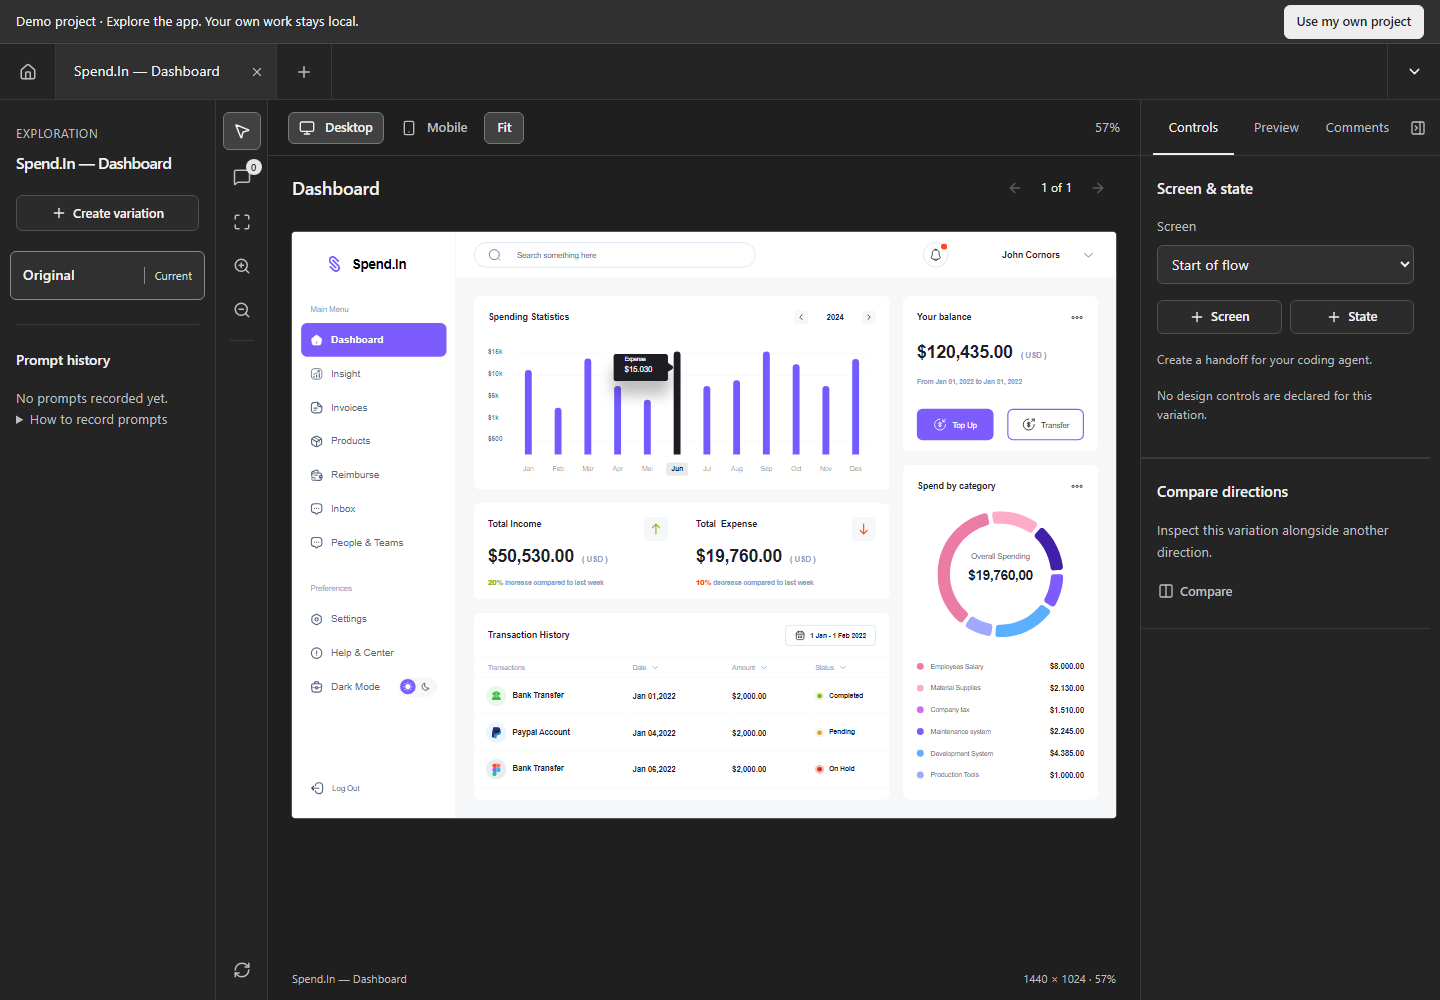
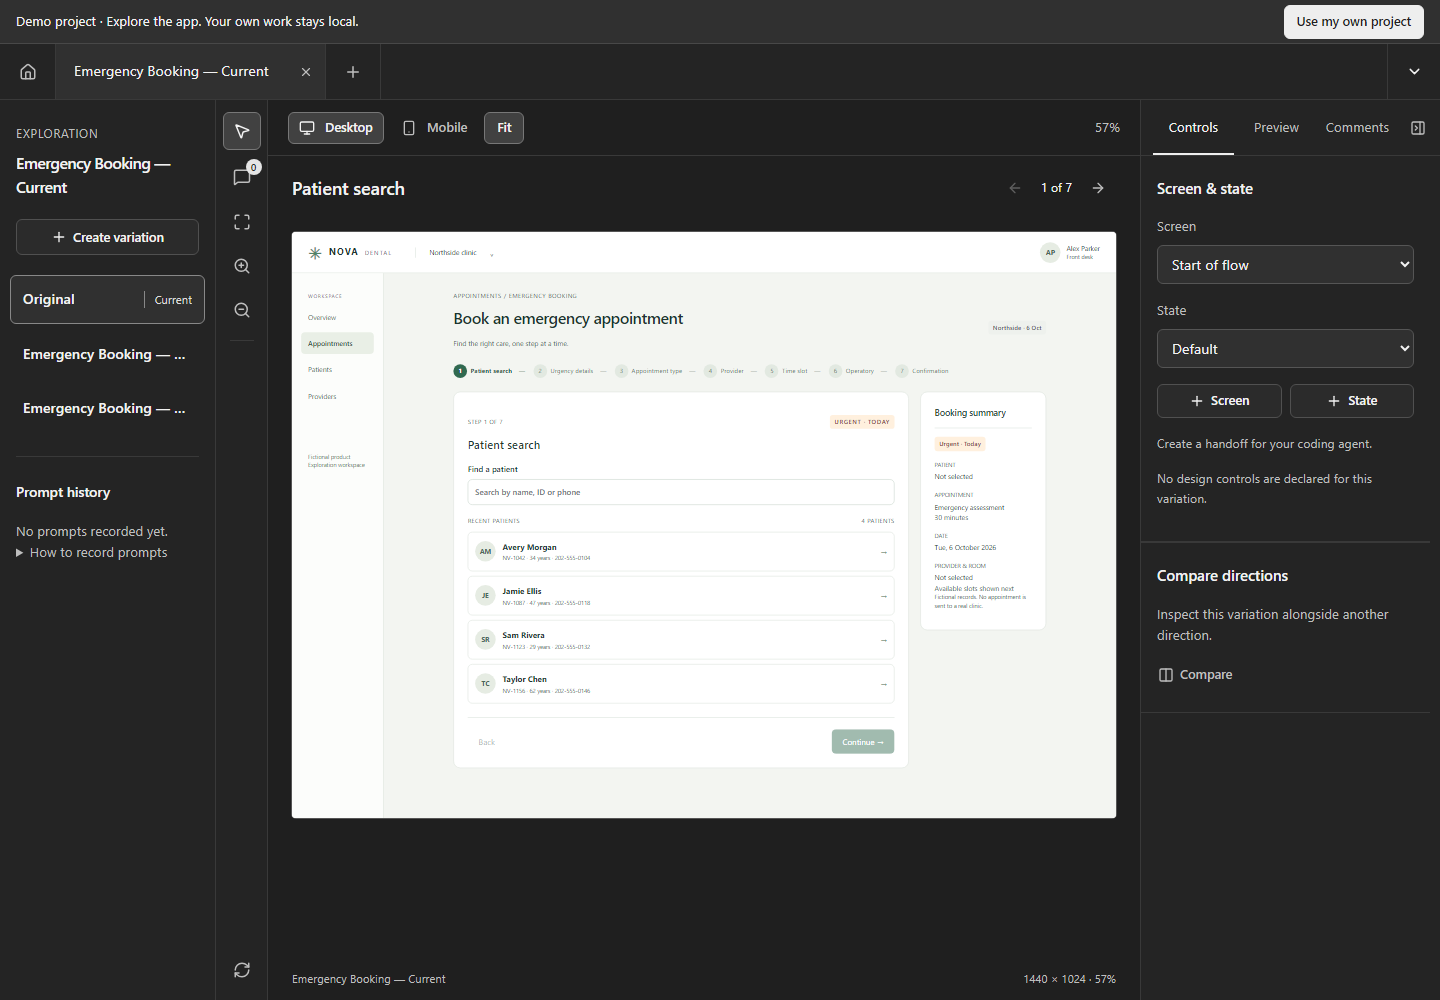
feat: open NOVA Dental by default in the public demo

diff --git a/apps/web/src/StudioApp.tsx b/apps/web/src/StudioApp.tsx
@@ -34,6 +34,9 @@ import {
 import { ProjectGuide } from './ProjectGuide';
 import { LocalSetup } from './LocalSetup';
 
+if (publicDemo && !location.search && !location.hash) {
+  history.replaceState(null, '', '?example=nova#demo=emergency-booking');
+}
 const example = new URLSearchParams(location.search).get('example') === 'nova';
 type Page = 'all' | 'mine' | 'system' | 'start';
 type Route = { page: Page; demo: string };
@@ -538,8 +541,22 @@ export function App() {
               </div>
               <div className="library-project-note">
                 <span>Local workspace · {catalog.designer.name}</span>
-                <a href={example ? './' : '?example=nova'}>
-                  {example ? 'Back to your workspace' : 'NOVA · Example Project'}{' '}
+                <a
+                  href={
+                    publicDemo
+                      ? example
+                        ? '?project=spend-in#page=all'
+                        : '?example=nova#demo=emergency-booking'
+                      : example
+                        ? './'
+                        : '?example=nova'
+                  }
+                >
+                  {example
+                    ? publicDemo
+                      ? 'Spend.In · Demo Project'
+                      : 'Back to your workspace'
+                    : 'NOVA · Example Project'}{' '}
                   <ArrowUpRight size={12} />
                 </a>
               </div>

diff --git a/docs/vercel.md b/docs/vercel.md
@@ -8,7 +8,7 @@ Connect the project to GitHub rather than only uploading a local build. Pushes t
 
 Use the production project domain as the shared link; individual deployment URLs identify a specific build. For anonymous viewing, review Vercel Deployment Protection and ensure the shared production domain is public. Configure a custom domain later if desired.
 
-The public build opens Spend.In and includes only the explicitly selected bundled demos. Own-project setup still guides visitors to install the repository and enable the project-local skill and MCP in their coding agent. Vercel never reads their local workspace. Demo changes are published only after committing and pushing their source to the connected branch; local unsaved edits are not deployed.
+The public build opens NOVA Dental and includes only the explicitly selected bundled demos. Own-project setup still guides visitors to install the repository and enable the project-local skill and MCP in their coding agent. Vercel never reads their local workspace. Demo changes are published only after committing and pushing their source to the connected branch; local unsaved edits are not deployed.
 
 The previous Sites URL is a separately published snapshot. A GitHub push updates Vercel only after the Git connection is configured; it does not update that earlier URL.
 

diff --git a/README.md b/README.md
@@ -4,7 +4,7 @@ Groot UI integration: see [docs/integration/port.md](docs/integration/port.md) f
 
 A local-first visual workbench for product designers. **Your existing coding agent edits the repository. Groot discovers, renders and organizes that work.** No provider connection, API key, chat or account.
 
-The public demo is a static, read-only build of the bundled projects. It opens Spend.In directly and guides visitors into local installation for their own work. Build it with `pnpm build:public`; validate it with `pnpm test:public`. It never reads visitors' local files or runs a project backend.
+The public demo is a static, read-only build of the bundled projects. It opens NOVA Dental directly and guides visitors into local installation for their own work. Build it with `pnpm build:public`; validate it with `pnpm test:public`. It never reads visitors' local files or runs a project backend.
 
 Follow [the setup skill](skills/groot-setup/SKILL.md) to install locally. After creating or choosing a Groot workspace, run `pnpm groot setup <project-folder>`. Enable the generated MCP command in your coding agent, then let it ask and save project-specific context questions. Future prototypes start from a fresh context brief. See [project MCP and setup](docs/project-mcp.md) for configuration and limits.
 

diff --git a/docs/project-mcp.md b/docs/project-mcp.md
@@ -1,6 +1,6 @@
 # Public demo and your own project
 
-The public site is a static snapshot of the bundled Spend.In and separate NOVA examples. It opens Spend.In directly. Prototype interactions and declared controls can be inspected, but saving comments, controls or alternatives requires the local app. No filesystem API, project MCP, SQLite database, designer identity or saved project answers are deployed.
+The public site is a static snapshot of the bundled Spend.In and separate NOVA examples. It opens NOVA Dental directly. Prototype interactions and declared controls can be inspected, but saving comments, controls or alternatives requires the local app. No filesystem API, project MCP, SQLite database, designer identity or saved project answers are deployed.
 
 Build it with `pnpm build:public`; verify with `pnpm test:public`. Only the six IDs explicitly listed in `scripts/build-public-demo.mjs` are published. New local explorations are not automatically uploaded. Public-demo feedback is empty. Source README/context documents are intentional bundled content; review that allowlist before adding examples.
 
